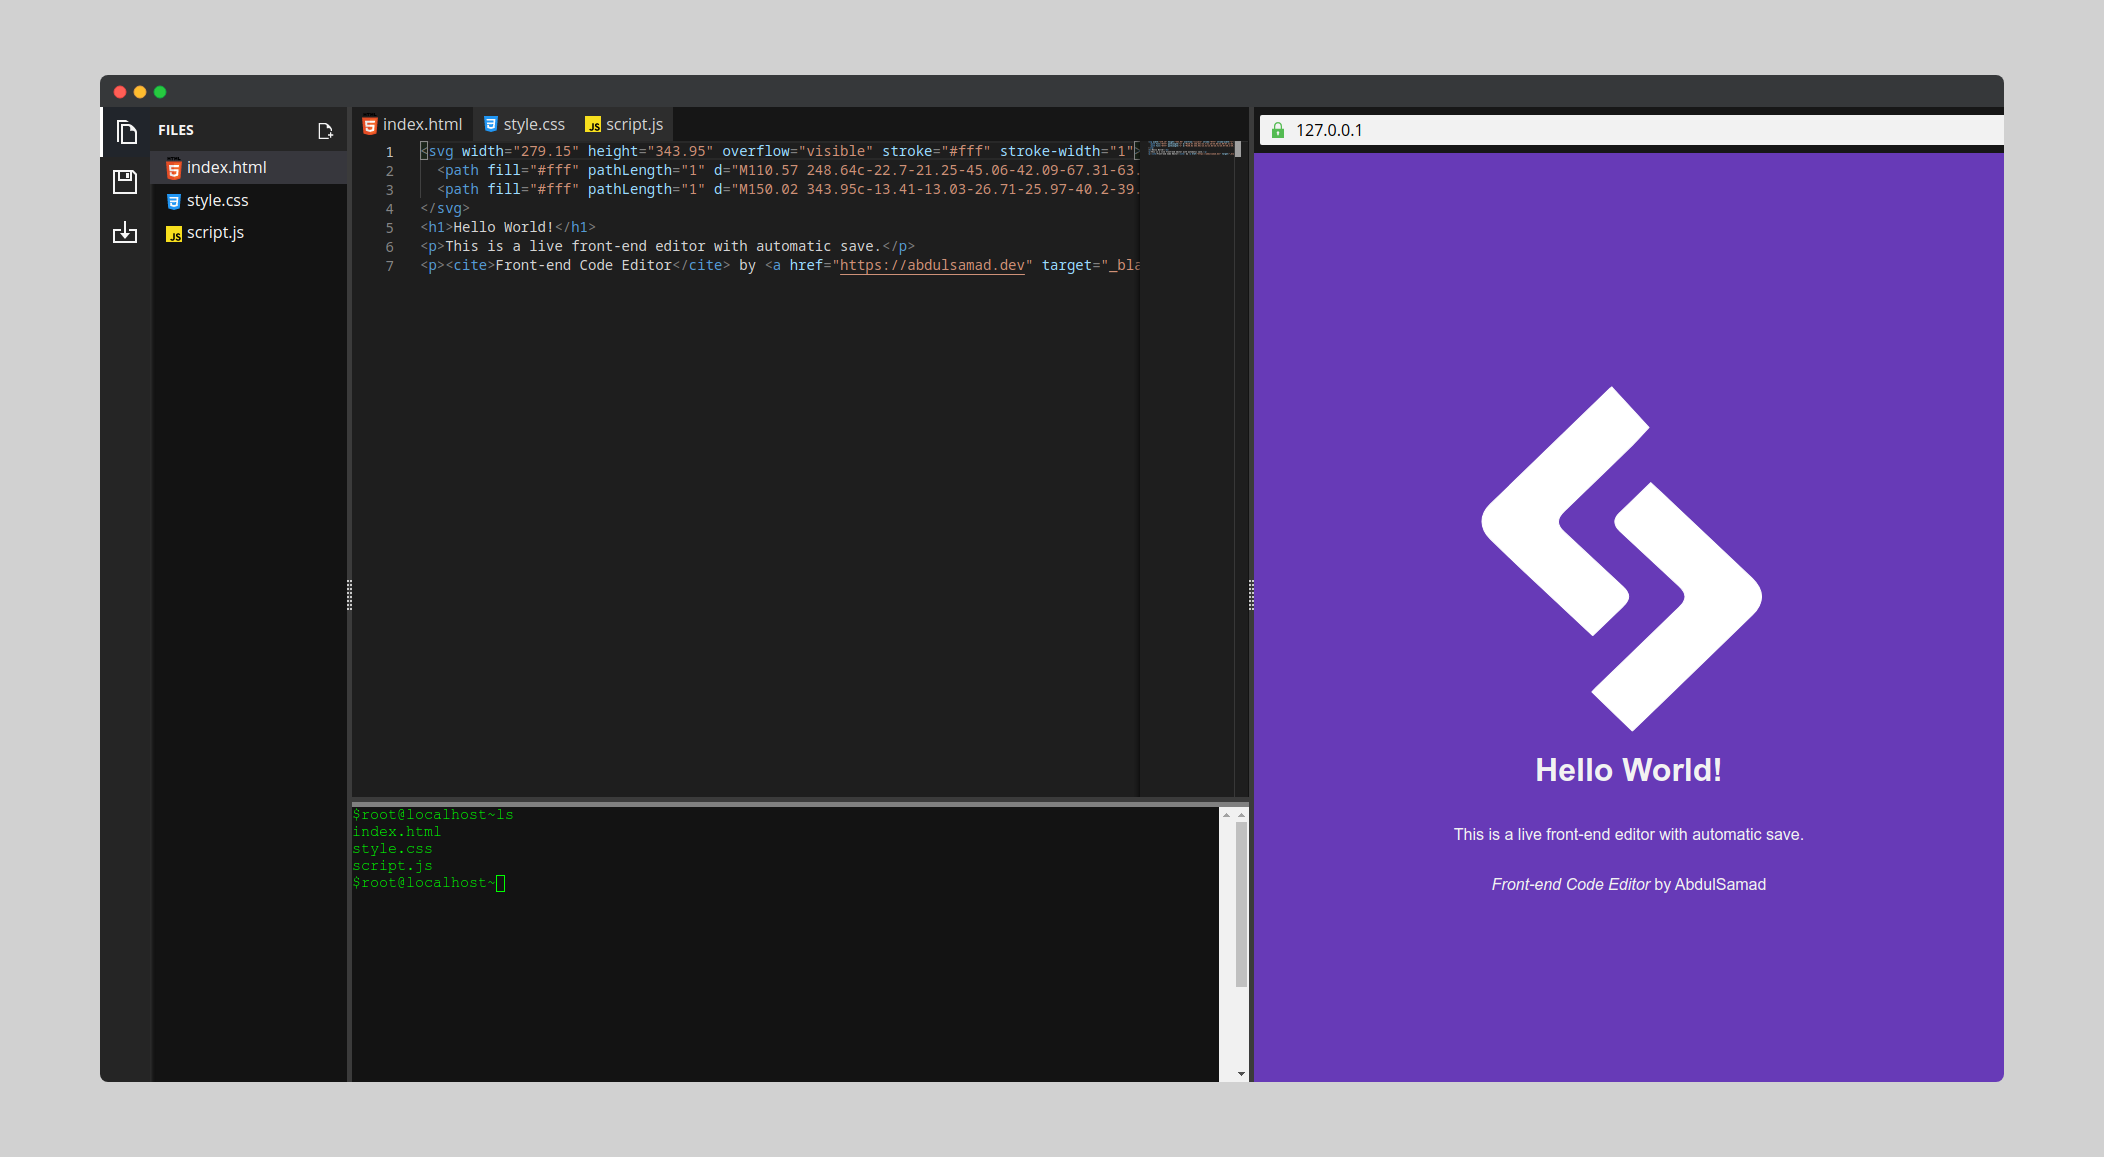
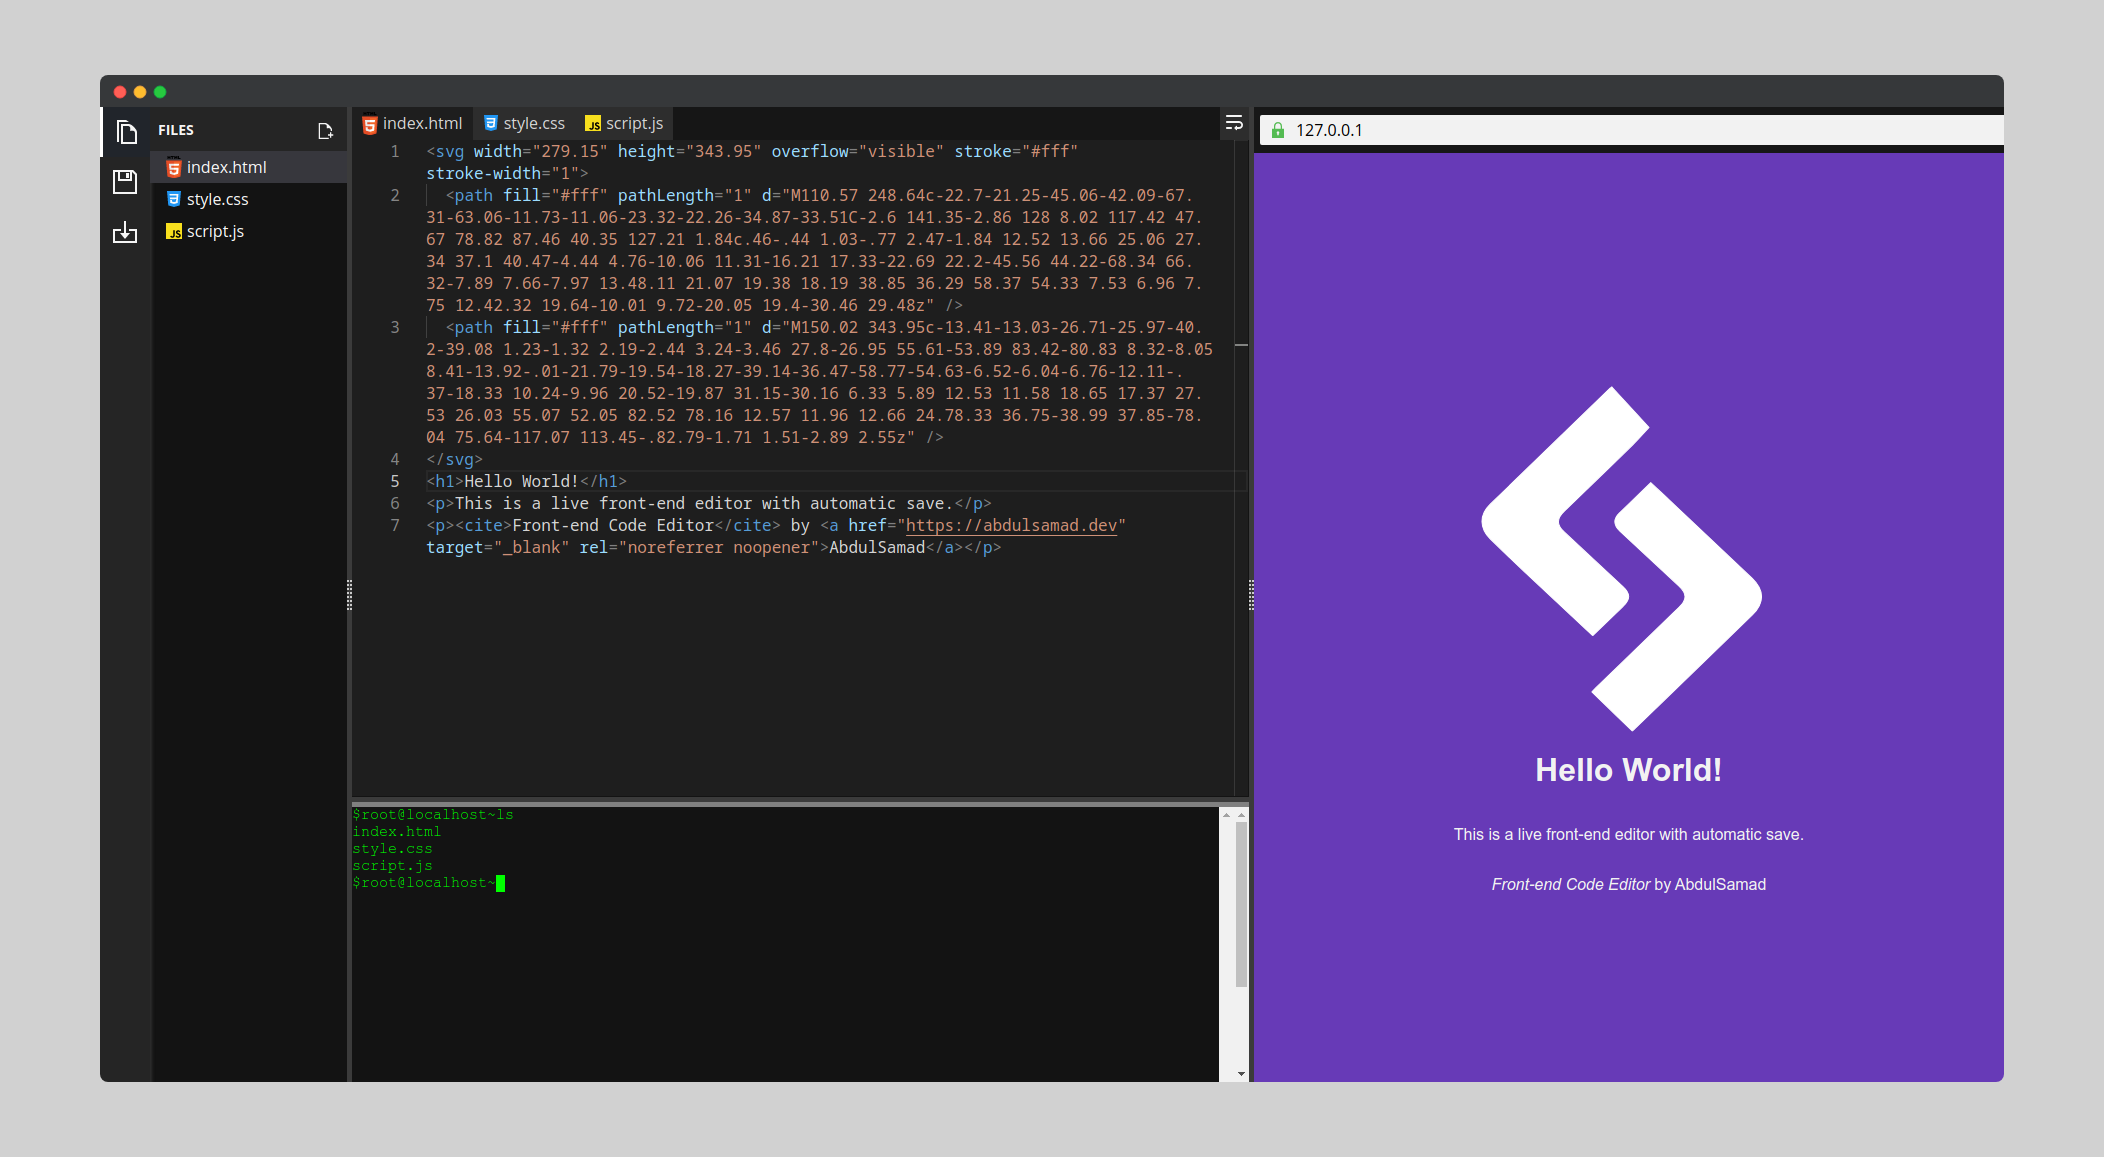
:memo: Updated README and Screenshot

Changed region(s): [[0.1854, 0.0933, 0.587, 0.4978], [0.0618, 0.1556, 0.1236, 0.2178]]

diff --git a/README.md b/README.md
@@ -2,8 +2,9 @@
 Online code editor for HTML, CSS, and JavaScript with live reload
 
 ### :sparkles: Features
-- Preview HTML, CSS, and JavaScript live and use it for practice or mockups.
-- Backup data and Restore from anywhere with UID 
+- Preview HTML, CSS, and JavaScript with live reload and use it for practice or quick mockups
+- Backup data and Restore from anywhere with UID
+- Word Wrap on Code Editor
 
 ### Installation
 Clone the repository
